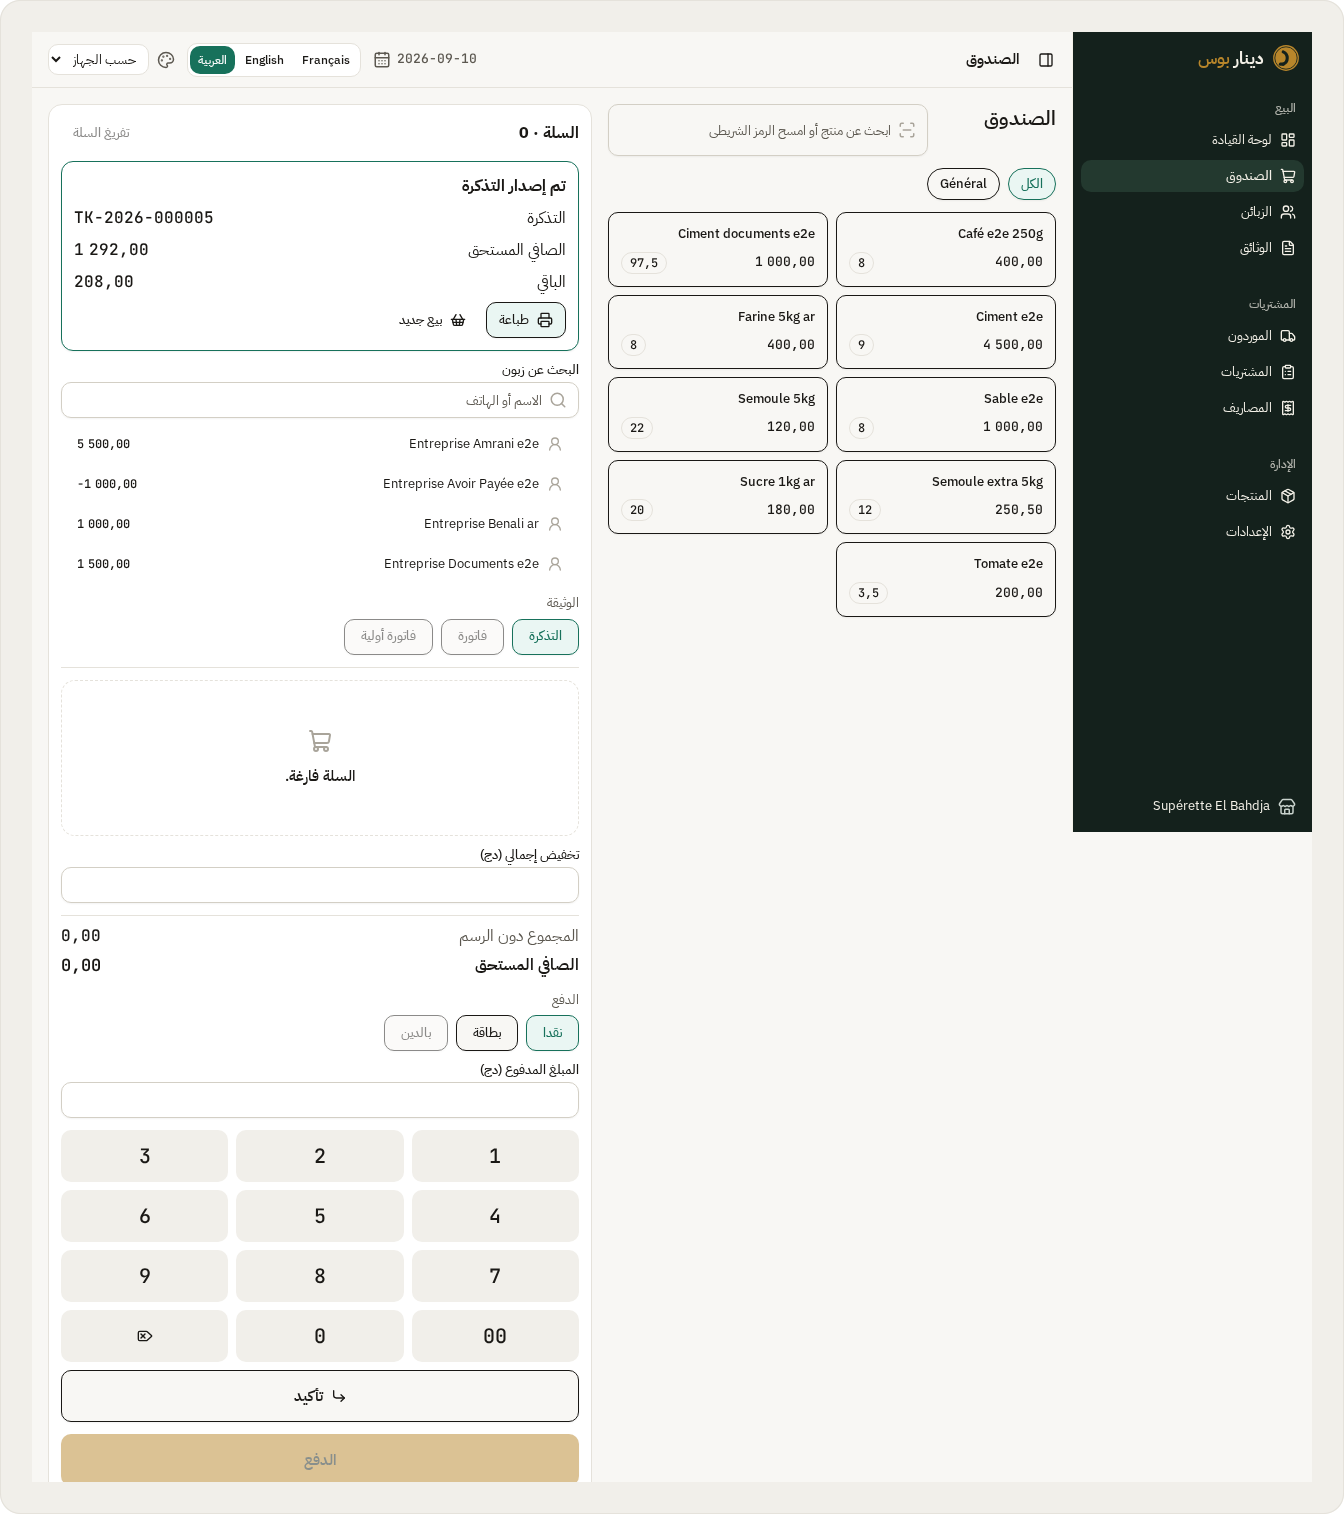
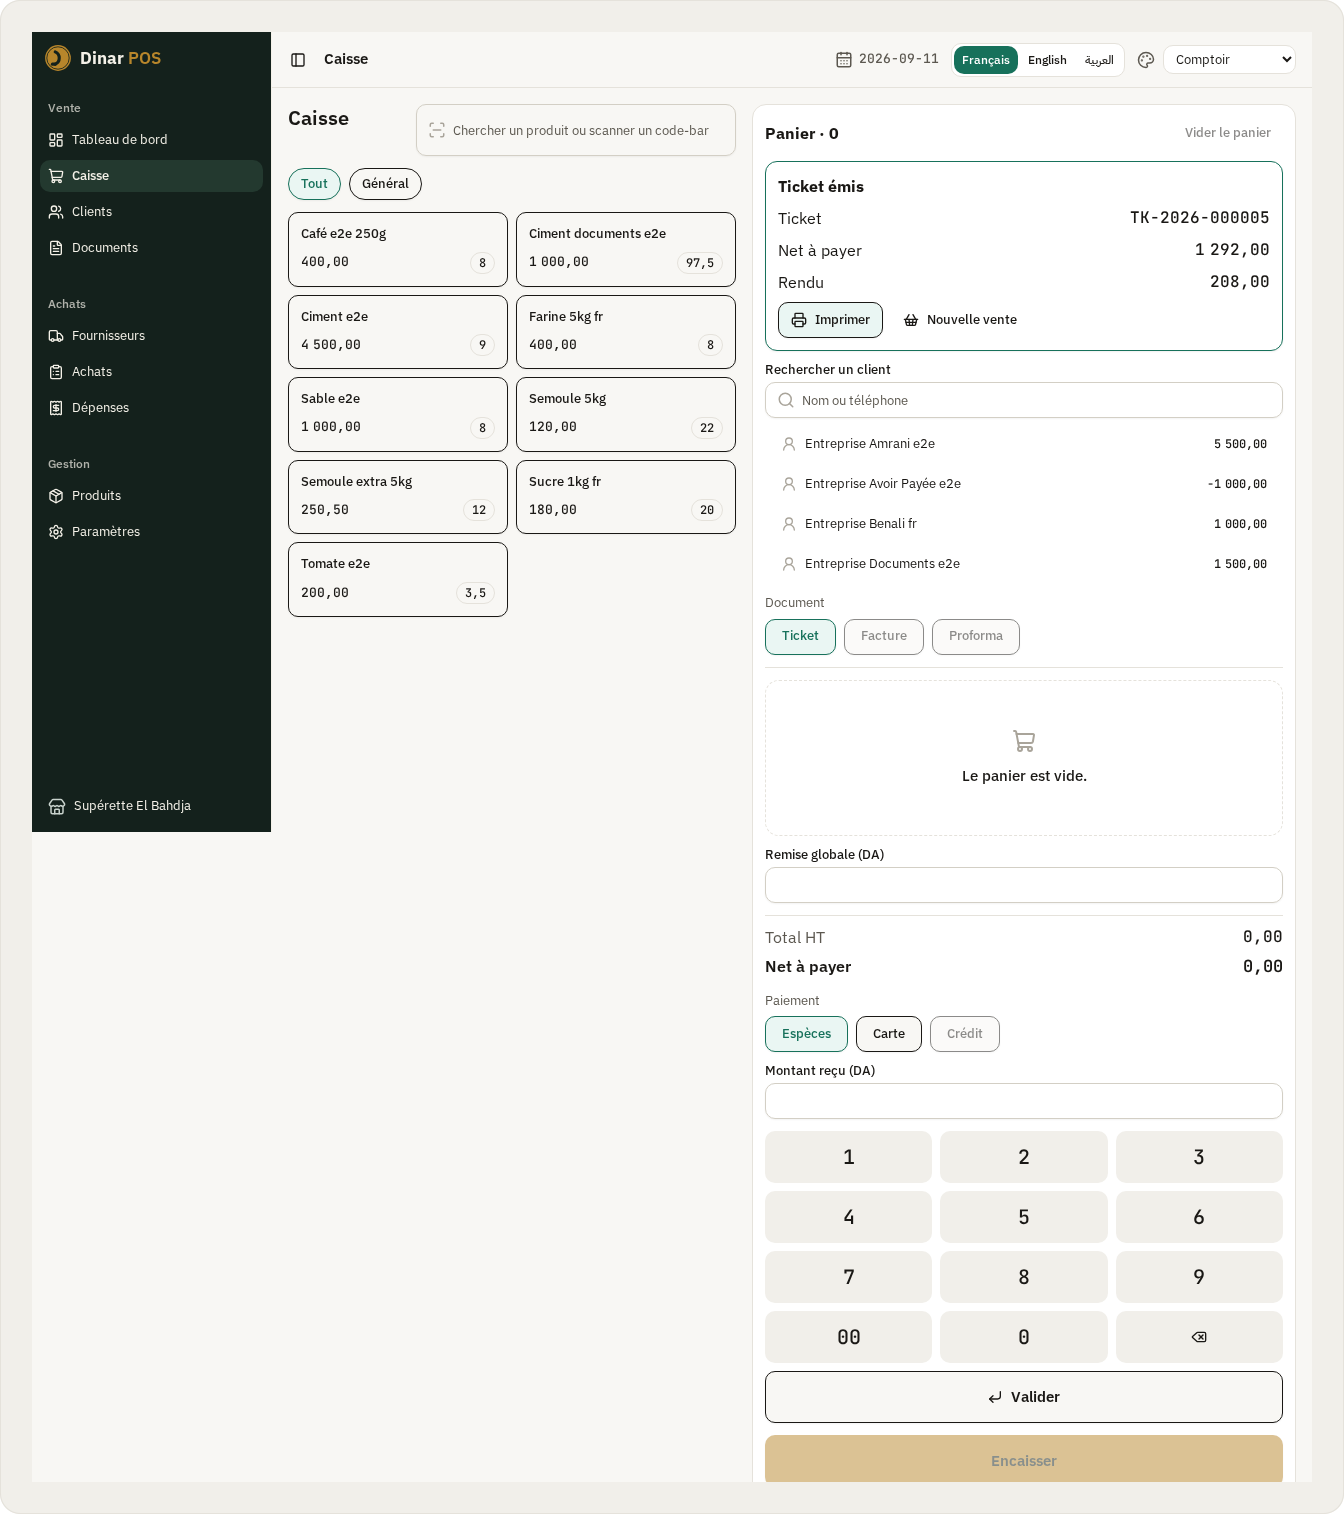
feat(landing): the hero, the selling piece and the invoicing piece go French
The credit-sale flow gets the same fr/ar split: till-credit.spec.ts now
saves till-credit.png alongside till-credit-ar.png, the same
currentLang() branch the till and documents specs picked up in the
previous commit. That was needed because SELLING is sourced from this
screenshot, not from the plain till one; keeping it on the credit-limit
override rather than repointing it at till.png avoids losing the point
of that piece.

lib/shots.ts's HERO, SELLING and INVOICING each gain an *_AR_CROP
alongside their default crop, the same shape STOCK_AR_CROP and
KNOWING_AR_CROP already use for those two pieces. buildShots() now
renders a French and an Arabic file for every single shot; the manifest
gives fr and en the French file and ar the Arabic one across the board,
so the landing page's French and English routes stop showing the Arabic
build of the app.

pnpm run shots regenerated public/shots/*.webp and shots.json: hero,
selling and invoicing each pick up a French @1x/@2x pair plus a
newly-named Arabic pair (hero-ar-*, selling-ar-*, invoicing-ar-*);
stock and knowing are unchanged in shape, just re-encoded from the
rerun screenshots.

Committed weight: 3.0M across apps/desktop/e2e/screenshots (26 PNGs),
1.2M across apps/landing/public/shots (24 webp).

ctx: landing-page/L1 progress
Claude-Session: https://claude.ai/code/session_01RTQZKcwLUnTNiaM9PhrHqW

diff --git a/apps/landing/src/lib/shots.ts b/apps/landing/src/lib/shots.ts
@@ -114,25 +114,28 @@ export interface SingleSpec {
 // the cart, the totals and the payment keypad all stay in frame.
 export const HERO: SingleSpec = {
   key: "hero",
-  crop: { source: "till-ar", top: 0, height: 1450 },
+  crop: { source: "till", top: 0, height: 1450 },
   cssWidth: 640,
 };
+export const HERO_AR_CROP: Crop = { source: "till-ar", top: 0, height: 1450 };
 
 // A different till moment from the hero: a credit sale past the customer's
 // limit, warned and then overridden. No crop: the whole screen is the point.
 export const SELLING: SingleSpec = {
   key: "selling",
-  crop: { source: "till-credit-ar", top: 0, height: 1060 },
+  crop: { source: "till-credit", top: 0, height: 1060 },
   cssWidth: 480,
 };
+export const SELLING_AR_CROP: Crop = { source: "till-credit-ar", top: 0, height: 1060 };
 
 // The documents list, cropped above the opened facture panel: one screen,
 // every paper kind the shop issues (facture, avoir, ticket).
 export const INVOICING: SingleSpec = {
   key: "invoicing",
-  crop: { source: "documents-avoir-ar", top: 0, height: 950 },
+  crop: { source: "documents-avoir", top: 0, height: 950 },
   cssWidth: 480,
 };
+export const INVOICING_AR_CROP: Crop = { source: "documents-avoir-ar", top: 0, height: 950 };
 
 // The product catalogue, not the recount panel buried inside Settings: the
 // one screen that answers "how much do I have and what's running low"
@@ -284,15 +287,17 @@ export const buildShots = async (): Promise<ShotsBuild> => {
     return { src1x: r1.file, src2x: r2.file, width: r1.width, height: r1.height };
   };
 
-  // No French (or English) screenshot exists for the till or the documents
-  // list, so all three locales share the Arabic crop for those two and for
-  // the hero (all three built from HERO/SELLING/INVOICING's own crop, which
-  // is already the Arabic source). Only "knowing" and "stock" have a real
-  // French screen to show a French or English visitor instead, so those two
-  // get a second, Arabic-suffixed file alongside the French one.
-  const hero = await single(HERO, HERO.crop);
-  const selling = await single(SELLING, SELLING.crop);
-  const invoicing = await single(INVOICING, INVOICING.crop);
+  // Every single shot now has both a French and an Arabic source screenshot,
+  // so every one of them renders twice: the French file for fr and en, and
+  // a second, Arabic-suffixed file for ar. fr and en are never a French
+  // visitor's or an English visitor's own language, but neither should see
+  // the Arabic build of the app on a page that leads with French.
+  const heroFr = await single(HERO, HERO.crop);
+  const heroAr = await single(HERO, HERO_AR_CROP, "hero-ar");
+  const sellingFr = await single(SELLING, SELLING.crop);
+  const sellingAr = await single(SELLING, SELLING_AR_CROP, "selling-ar");
+  const invoicingFr = await single(INVOICING, INVOICING.crop);
+  const invoicingAr = await single(INVOICING, INVOICING_AR_CROP, "invoicing-ar");
   const knowingFr = await single(KNOWING, KNOWING.crop);
   const knowingAr = await single(KNOWING, KNOWING_AR_CROP, "knowing-ar");
   const stockFr = await single(STOCK, STOCK.crop);
@@ -308,9 +313,9 @@ export const buildShots = async (): Promise<ShotsBuild> => {
   const collageAr = await collage(COLLAGE_AR, "ar");
 
   const manifest: ShotsManifest = {
-    hero: { fr: hero, en: hero, ar: hero },
-    selling: { fr: selling, en: selling, ar: selling },
-    invoicing: { fr: invoicing, en: invoicing, ar: invoicing },
+    hero: { fr: heroFr, en: heroFr, ar: heroAr },
+    selling: { fr: sellingFr, en: sellingFr, ar: sellingAr },
+    invoicing: { fr: invoicingFr, en: invoicingFr, ar: invoicingAr },
     stock: { fr: stockFr, en: stockFr, ar: stockAr },
     knowing: { fr: knowingFr, en: knowingFr, ar: knowingAr },
     collage: { fr: collageFr, en: collageFr, ar: collageAr },

diff --git a/apps/desktop/e2e/till-credit.spec.ts b/apps/desktop/e2e/till-credit.spec.ts
@@ -117,7 +117,7 @@ async function addAndPayOnCredit(page: Page, product: string): Promise<void> {
 // "screenshot" in the title on purpose: `just screenshot` greps for it, and
 // till-credit-ar.png is committed, so the file has to be regenerable by that
 // recipe.
-test("sells on credit, warns at the threshold, is refused past the limit, overrides, and saves the screenshot in Arabic", async ({
+test("sells on credit, warns at the threshold, is refused past the limit, overrides, and saves the screenshot", async ({
   page,
   request,
 }) => {
@@ -189,11 +189,13 @@ test("sells on credit, warns at the threshold, is refused past the limit, overri
   // Nothing was written: the refusal cost the customer nothing.
   expect((await ledger(request, customerId)).balance_centimes).toBe(BIG_PRICE);
 
-  if (currentLang() === "ar") {
-    // The one committed picture of this flow: the refusal with its two
-    // amounts, in the mirrored layout, with the figures still left to right.
+  if (currentLang() === "fr" || currentLang() === "ar") {
+    // The refusal with its two amounts, in the two languages the committed
+    // shots cover: fr is the reference shot, ar is the mirrored layout,
+    // with the figures still left to right.
+    const shot = currentLang() === "ar" ? "till-credit-ar.png" : "till-credit.png";
     await page.screenshot({
-      path: path.join(here, "screenshots", "till-credit-ar.png"),
+      path: path.join(here, "screenshots", shot),
       fullPage: true,
     });
   }

diff --git a/apps/desktop/e2e/README.md b/apps/desktop/e2e/README.md
@@ -7,29 +7,34 @@ Playwright here is the interim local driver.
 
 ```
 just e2e                          # the whole suite, in fr, then en, then ar
-just screenshot                   # writes twenty-two of the twenty-three screenshots
+just screenshot                   # writes twenty-five of the twenty-six screenshots
 pnpm desktop e2e --project ar     # one language, every spec file
 ```
 
 `just screenshot` runs `-g screenshot` (the tests with "screenshot" in
 their title) under `--project fr` then `--project ar`. Under fr that
-writes `products.png`, `customers.png`, `dashboard.png` and the kit's four; the other fourteen
-say "... screenshot(s) in Arabic"
-in their titles, so they match the grep in both runs but write a file only
-when `currentLang()` is `ar`, and the fr run of them does nothing
-observable. Under ar all fifteen write: `products-ar.png`,
-`dashboard-ar.png`, `settings-ar.png`,
-`till-ar.png`, `customers-ar.png`, `suppliers-ar.png`, `supplier-statement-ar.png`, `purchases-ar.png`,
-`expenses-ar.png`, `till-credit-ar.png`, `documents-avoir-ar.png`,
-`stock-recount-ar.png`, and the theme pair `theme-comptoir-ar.png` and
-`theme-observe-ar.png`. The customers test writes two of them: the list and,
-before it walks back to it, `customer-account-ar.png`, the page one row's
-name opens; the suppliers test does the same with `supplier-statement-ar.png`.
+writes `products.png`, `customers.png`, `dashboard.png`, `till.png`,
+`till-credit.png`, `documents-avoir.png` and the kit's four; the other six
+titles either say "... screenshot(s) in Arabic" or, for `purchases.spec.ts`
+and `suppliers.spec.ts`, write an Arabic-only file without saying so, so
+they match the grep in both runs but write a file only when `currentLang()`
+is `ar`, and the fr run of them does nothing observable. Under ar all
+fifteen write: `products-ar.png`, `dashboard-ar.png`, `settings-ar.png`,
+`till-ar.png`, `customers-ar.png`, `suppliers-ar.png`,
+`supplier-statement-ar.png`, `purchases-ar.png`, `expenses-ar.png`,
+`till-credit-ar.png`, `documents-avoir-ar.png`, `stock-recount-ar.png`,
+and the theme pair `theme-comptoir-ar.png` and `theme-observe-ar.png`.
+The customers test writes two of them: the list and, before it walks back
+to it, `customer-account-ar.png`, the page one row's name opens; the
+suppliers test does the same with `supplier-statement-ar.png`.
 
-`products.spec.ts` and `zzz-dashboard.spec.ts` are the two that write under
-both languages, so their titles carry no "in Arabic": the products screen is
-the reference shot of a list, and the dashboard is the one screen whose whole
-point is a picture.
+`products.spec.ts`, `customers.spec.ts`, `zzz-dashboard.spec.ts`,
+`till.spec.ts`, `till-credit.spec.ts` and
+`till-reversals-and-quotations.spec.ts` are the six that write under both
+languages, so their titles carry no "in Arabic": the products screen is
+the reference shot of a list, the dashboard is the one screen whose whole
+point is a picture, and the till, the credit sale and the documents list
+each now show a French visitor the real screen instead of the Arabic one.
 
 The kit's four (`kit-comptoir.png`, `kit-registre.png`, `kit-observe.png`,
 `kit-observe-dark.png`) are the exception to that pattern: they are written
@@ -189,8 +194,9 @@ second language on; use the looped `just e2e` or a single `--project`.
   overlay opened. It runs before the settings and theme specs, so it hands
   the shop back to Comptoir, the default, before it leaves. It writes the four
   kit screenshots under fr.
-- The twenty-three committed screenshots, 1280x800, full page: `products.png`,
-  `customers.png`, `dashboard.png` and the kit's four (`kit-comptoir.png`,
+- The twenty-six committed screenshots, 1280x800, full page: `products.png`,
+  `customers.png`, `dashboard.png`, `till.png`, `till-credit.png`,
+  `documents-avoir.png` and the kit's four (`kit-comptoir.png`,
   `kit-registre.png`, `kit-observe.png`, `kit-observe-dark.png`) in fr; in ar,
   `products-ar.png`, `dashboard-ar.png`, `settings-ar.png`, `till-ar.png`,
   `customers-ar.png`, `customer-account-ar.png`, `suppliers-ar.png`,
@@ -202,7 +208,10 @@ second language on; use the looped `just e2e` or a single `--project`.
   Observe, which is what a theme is for: the same screen, two palettes, one
   stylesheet.
   `en` keeps none; the two languages above are enough to show the layout
-  and the RTL mirror.
+  and the RTL mirror. `till.png`, `till-credit.png` and `documents-avoir.png`
+  exist so `apps/landing`'s generator (`src/lib/shots.ts`) has a French
+  source for the hero and two of the four feature pieces instead of only
+  the Arabic one.
 - `.artifacts/`: gitignored, holding the temp database and failure traces.
   A failure's trace and its Playwright report name the project (the
   language) the failing test ran under.
